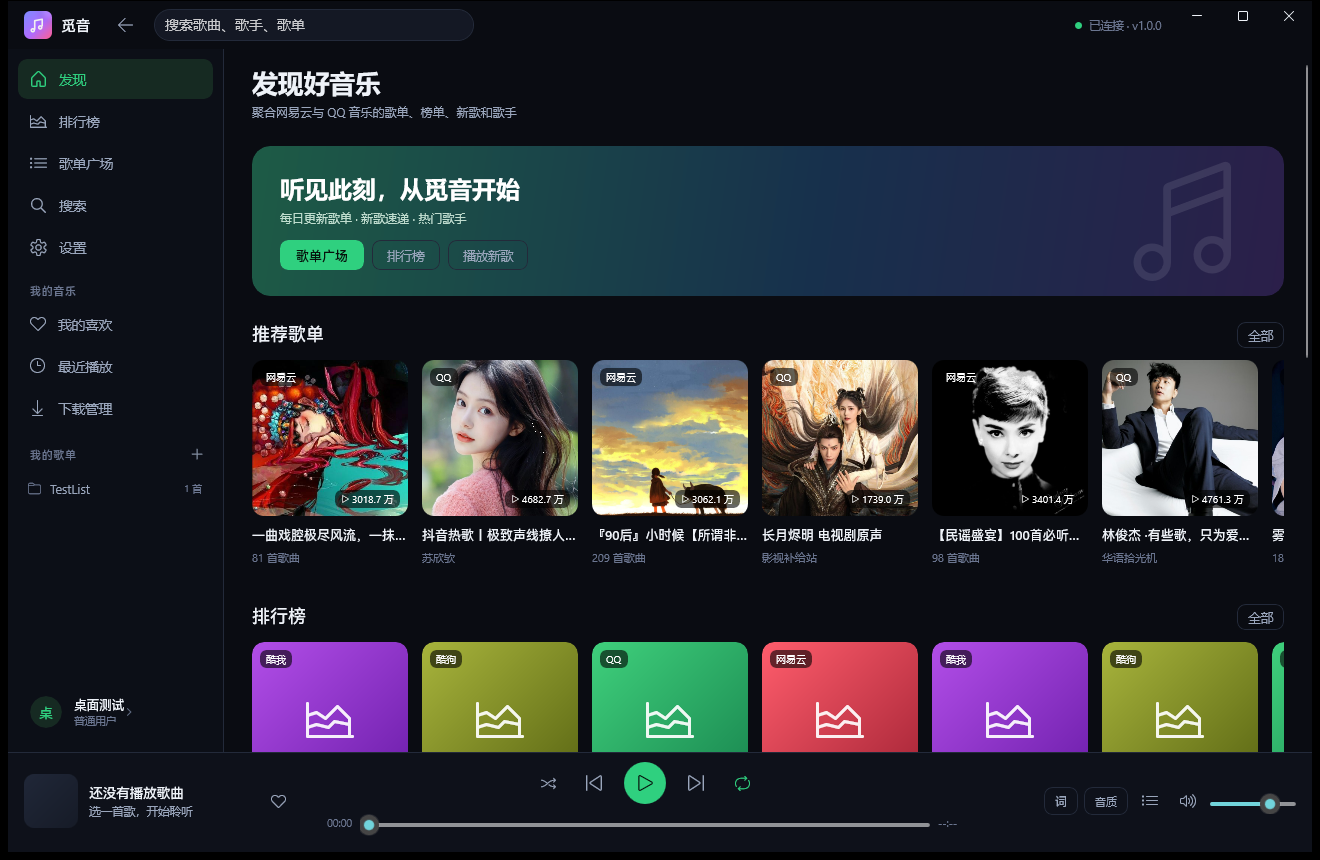
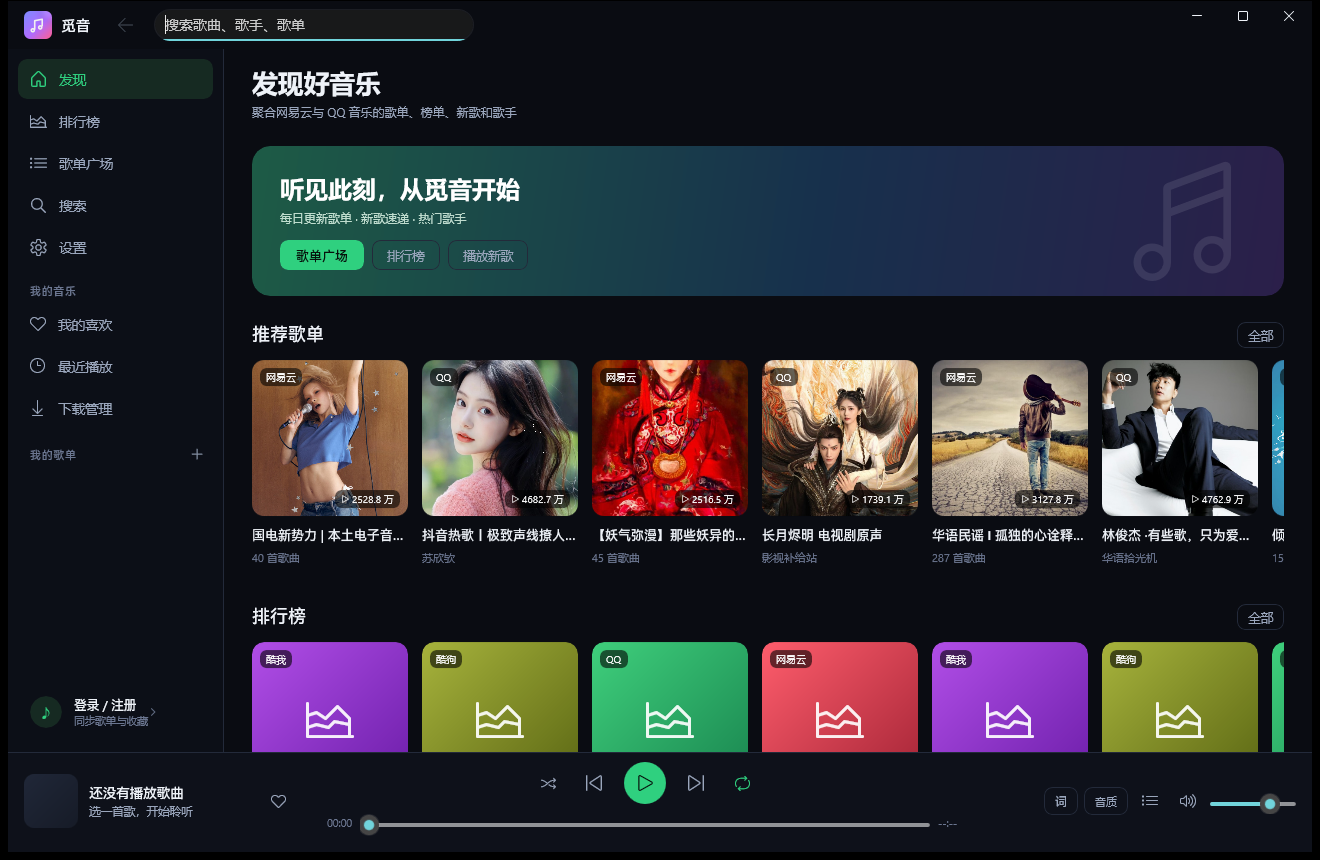
Silent background connect, home cache, custom server cache

diff --git a/desktop-winui/MiYin.Desktop/MainWindow.xaml b/desktop-winui/MiYin.Desktop/MainWindow.xaml
@@ -39,10 +39,6 @@
                             PlaceholderText="搜索歌曲、歌手、歌单" QuerySubmitted="GlobalSearch_QuerySubmitted"
                             BorderBrush="{StaticResource LineBrush}" Background="{StaticResource CardBrush}" CornerRadius="16" />
 
-            <StackPanel Grid.Column="4" Orientation="Horizontal" Spacing="7" VerticalAlignment="Center">
-                <Ellipse x:Name="ApiStatusDot" Width="7" Height="7" Fill="{StaticResource AccentBrush}" />
-                <TextBlock x:Name="ApiStatusText" Text="正在连接…" FontSize="11.5" Foreground="{StaticResource TextFaintBrush}" />
-            </StackPanel>
         </Grid>
 
         <!-- ================= 主体 ================= -->
@@ -370,32 +366,6 @@
                     </ListView>
                 </Grid>
             </Border>
-        </Grid>
-
-        <!-- ================= 连接失败 ================= -->
-        <Grid x:Name="ConnectionErrorOverlay" Grid.RowSpan="3" Visibility="Collapsed" Background="{StaticResource AppBgBrush}">
-            <Border Width="480" Padding="30" CornerRadius="18" Background="{StaticResource CardBrush}"
-                    BorderBrush="{StaticResource LineBrush}" BorderThickness="1" HorizontalAlignment="Center" VerticalAlignment="Center">
-                <StackPanel Spacing="12">
-                    <Image Source="Assets/app.png" Width="46" Height="46" HorizontalAlignment="Left" />
-                    <TextBlock Text="无法连接音乐服务器" FontSize="21" FontWeight="Bold" Foreground="{StaticResource TextBrush}" />
-                    <TextBlock Text="觅音已固定连接 music.poouo.com，请检查网络后重试。"
-                               FontSize="12" Foreground="{StaticResource TextFaintBrush}" TextWrapping="Wrap" />
-                    <TextBlock x:Name="ConnectionErrorText" FontSize="11.5" Foreground="{StaticResource PinkBrush}" TextWrapping="Wrap" />
-                    <Button x:Name="RetryButton" Style="{StaticResource PrimaryButtonStyle}" Content="重试"
-                            HorizontalAlignment="Right" Click="RetryConnect_Click" />
-                </StackPanel>
-            </Border>
-        </Grid>
-
-        <!-- ================= 启动加载 ================= -->
-        <Grid x:Name="StartupOverlay" Grid.RowSpan="3" Background="{StaticResource AppBgBrush}">
-            <StackPanel HorizontalAlignment="Center" VerticalAlignment="Center" Spacing="18">
-                <Image Source="Assets/app.png" Width="96" Height="96" />
-                <TextBlock Text="觅音" FontSize="30" FontWeight="Bold" Foreground="{StaticResource TextBrush}" HorizontalAlignment="Center" />
-                <ProgressRing IsActive="True" Width="28" Height="28" Foreground="{StaticResource AccentBrush}" />
-                <TextBlock x:Name="StartupText" Text="正在启动…" FontSize="12" Foreground="{StaticResource TextFaintBrush}" HorizontalAlignment="Center" />
-            </StackPanel>
         </Grid>
 
         <!-- ================= 提示 ================= -->

diff --git a/web/src/pages/AdminPage.tsx b/web/src/pages/AdminPage.tsx
@@ -947,7 +947,8 @@ function CacheSection() {
 
   const setGb = (value: number) => {
     if (!Number.isFinite(value)) return
-    setCache({ ...cache, maxBytes: Math.max(0.25, value) * 1024 ** 3 })
+    const safe = Math.min(4096, Math.max(1, Math.round(value)))
+    setCache({ ...cache, maxBytes: safe * 1024 ** 3 })
   }
 
   const toggleQuality = (quality: Quality) => {
@@ -1021,17 +1022,18 @@ function CacheSection() {
       <div className="admin-card glass">
         <div className="admin-card__head">
           <div>
-            <div className="admin-card__title">缓存总容量</div>
+            <div className="admin-card__title">缓存总容量（自定义）</div>
             <div className="faint" style={{ fontSize: 12, marginTop: 3 }}>
-              超出后按最久未播放的顺序自动清理旧文件；游客主动下载不受这个上限影响。
+              按你的存储空间自由填写，最大 4096 GB；4TB NAS 建议先设 2048 GB，给系统和其他数据留余量。
             </div>
           </div>
           <div className="row gap-8" style={{ alignItems: 'center' }}>
             <input
               className="input"
               type="number"
-              min={0.25}
-              step={0.5}
+              min={1}
+              max={4096}
+              step={1}
               value={gb}
               onChange={(event) => setGb(Number(event.target.value))}
               style={{ width: 110, height: 36 }}
@@ -1040,13 +1042,13 @@ function CacheSection() {
           </div>
         </div>
         <div className="row gap-8" style={{ flexWrap: 'wrap', marginTop: 10 }}>
-          {[2, 8, 16, 32, 64].map((size) => (
+          {[64, 128, 256, 512, 1024, 2048, 4096].map((size) => (
             <button
               key={size}
               className={'chip' + (Math.abs(gb - size) < 0.05 ? ' is-active' : '')}
               onClick={() => setGb(size)}
             >
-              {size} GB
+              {size >= 1024 ? (size / 1024) + ' TB' : size + ' GB'}
             </button>
           ))}
         </div>

diff --git a/desktop-winui/MiYin.Desktop/Views/HomePage.xaml.cs b/desktop-winui/MiYin.Desktop/Views/HomePage.xaml.cs
@@ -1,3 +1,4 @@
+using System.Text.Json;
 using MiYin.Desktop.Models;
 using MiYin.Desktop.Services;
 using Microsoft.UI.Xaml;
@@ -13,9 +14,21 @@ public sealed partial class HomePage : Page
     private static List<Song>? _newSongs;
     private static List<SingerInfo>? _singers;
 
+    private static readonly string CacheFile = Path.Combine(AppInfo.DataDirectory, "home-cache.json");
+    private static readonly JsonSerializerOptions JsonOptions = new() { WriteIndented = false };
+
+    private sealed class HomeCache
+    {
+        public List<PlaylistInfo>? Playlists { get; set; }
+        public List<ChartInfo>? Charts { get; set; }
+        public List<Song>? NewSongs { get; set; }
+        public List<SingerInfo>? Singers { get; set; }
+    }
+
     public HomePage()
     {
         InitializeComponent();
+        LoadCached();
         Loaded += (_, _) => _ = LoadAsync();
         Unloaded += (_, _) => LibraryService.Instance.Changed -= Library_Changed;
     }
@@ -29,39 +42,84 @@ public sealed partial class HomePage : Page
 
     private void Library_Changed(object? sender, EventArgs e) => DispatcherQueue.TryEnqueue(RefreshRecent);
 
+    public Task RefreshAsync() => LoadAsync();
+
     private async Task LoadAsync()
     {
-        LoadingRing.IsActive = true;
+        // 有缓存时先展示缓存，不显示整页的加载遮罩；网络回来后再覆盖。
+        LoadingRing.IsActive = _playlists is null;
         ErrorText.Visibility = Visibility.Collapsed;
         try
         {
-            if (_playlists is null || _charts is null || _newSongs is null || _singers is null)
-            {
-                var playlistsTask = ApiService.GetDiscoverPlaylistsAsync(12, 18);
-                var chartsTask = ApiService.GetChartsAsync();
-                var songsTask = ApiService.GetNewSongsAsync(12);
-                var singersTask = ApiService.GetSingersAsync(12);
-                await Task.WhenAll(playlistsTask, chartsTask, songsTask, singersTask);
-                _playlists = playlistsTask.Result.Playlists;
-                _charts = chartsTask.Result.Charts;
-                _newSongs = songsTask.Result.Songs;
-                _singers = singersTask.Result.Singers;
-            }
-            PlaylistRail.ItemsSource = _playlists;
-            ChartRail.ItemsSource = MixCharts(_charts);
-            NewSongRail.ItemsSource = _newSongs;
-            SingerRail.ItemsSource = _singers;
+            var playlistsTask = ApiService.GetDiscoverPlaylistsAsync(12, 18);
+            var chartsTask = ApiService.GetChartsAsync();
+            var songsTask = ApiService.GetNewSongsAsync(12);
+            var singersTask = ApiService.GetSingersAsync(12);
+            await Task.WhenAll(playlistsTask, chartsTask, songsTask, singersTask);
+
+            _playlists = playlistsTask.Result.Playlists;
+            _charts = chartsTask.Result.Charts;
+            _newSongs = songsTask.Result.Songs;
+            _singers = singersTask.Result.Singers;
+            ApplyData();
+            SaveCache();
         }
         catch (Exception ex)
         {
-            ErrorText.Text = "内容加载失败：" + ex.Message;
-            ErrorText.Visibility = Visibility.Visible;
+            // 有旧内容时静默保留，不在用户面前弹“连接失败”。
+            if (_playlists is null)
+            {
+                ErrorText.Text = "暂时无法加载内容，稍后自动重试";
+                ErrorText.Visibility = Visibility.Visible;
+            }
+            AppLog.Write("home load failed: " + ex.Message);
         }
         finally
         {
             LoadingRing.IsActive = false;
         }
         RefreshRecent();
+    }
+
+    private void LoadCached()
+    {
+        try
+        {
+            if (_playlists is not null || !File.Exists(CacheFile)) return;
+            var cache = JsonSerializer.Deserialize<HomeCache>(File.ReadAllText(CacheFile), JsonOptions);
+            if (cache is null) return;
+            _playlists = cache.Playlists;
+            _charts = cache.Charts;
+            _newSongs = cache.NewSongs;
+            _singers = cache.Singers;
+            ApplyData();
+        }
+        catch
+        {
+            /* 缓存损坏时忽略 */
+        }
+    }
+
+    private void ApplyData()
+    {
+        PlaylistRail.ItemsSource = _playlists;
+        ChartRail.ItemsSource = _charts is null ? null : MixCharts(_charts);
+        NewSongRail.ItemsSource = _newSongs;
+        SingerRail.ItemsSource = _singers;
+    }
+
+    private void SaveCache()
+    {
+        try
+        {
+            Directory.CreateDirectory(AppInfo.DataDirectory);
+            var cache = new HomeCache { Playlists = _playlists, Charts = _charts, NewSongs = _newSongs, Singers = _singers };
+            File.WriteAllText(CacheFile, JsonSerializer.Serialize(cache, JsonOptions));
+        }
+        catch
+        {
+            /* 缓存写入失败不影响页面 */
+        }
     }
 
     private static List<ChartInfo> MixCharts(List<ChartInfo> charts)

diff --git a/desktop-winui/MiYin.Desktop/MainWindow.xaml.cs b/desktop-winui/MiYin.Desktop/MainWindow.xaml.cs
@@ -25,7 +25,8 @@ public sealed partial class MainWindow : Window
     private bool _updatingVolume;
     private bool _draggingProgress;
     private bool _draggingVolume;
-    private bool _connecting;
+    private bool _initializing;
+    private bool _retryScheduled;
     private bool _exiting;
     private bool _hidingToTray;
 
@@ -187,61 +188,69 @@ public sealed partial class MainWindow : Window
         }
     }
 
+    /// <summary>先展示主界面（有缓存就先展示缓存），连接过程完全放到后台。</summary>
+    public void StartShell()
+    {
+        NavigateTo(typeof(HomePage), null, "home");
+        _ = InitializeAsync();
+    }
+
     public async Task InitializeAsync()
     {
+        if (_initializing || _exiting) return;
+        _initializing = true;
         try
         {
             AppLog.Write("window init start api=" + ConfigService.Current.ApiBase);
             await LocalMediaServer.Instance.StartAsync();
-            StartupText.Text = "正在连接音乐服务…";
             var (ok, message, version) = await ApiService.TestConnectionAsync(ConfigService.Current.ApiBase);
             if (!ok)
             {
-                StartupOverlay.Visibility = Visibility.Collapsed;
-                ShowConnectionError(message);
+                AppLog.Write("background connect failed: " + message);
+                ScheduleRetry();
                 return;
             }
-            ApiStatusText.Text = "已连接" + (string.IsNullOrEmpty(version) ? "" : " · v" + version);
-            ApiStatusDot.Fill = (Brush)Application.Current.Resources["AccentBrush"];
+
             AppLog.Write("connected api=" + ConfigService.Current.ApiBase + " version=" + version);
             await AuthService.Instance.InitializeAsync();
             await LibraryService.Instance.ReloadAsync();
             RefreshUserCard();
-            StartupOverlay.Visibility = Visibility.Collapsed;
-            NavigateTo(typeof(HomePage), null, "home");
+
+            // 连接成功后再把当前页面刷新成最新数据；用户不会看到连接过程。
+            await RefreshCurrentPageAsync();
         }
         catch (Exception ex)
         {
-            StartupOverlay.Visibility = Visibility.Collapsed;
-            ShowConnectionError("启动失败：" + ex.Message);
-        }
-    }
-
-    private void ShowConnectionError(string message)
-    {
-        ConnectionErrorOverlay.Visibility = Visibility.Visible;
-        ConnectionErrorText.Text = message;
-        ApiStatusText.Text = "未连接";
-        ApiStatusDot.Fill = new SolidColorBrush(ColorHelper.FromArgb(255, 255, 93, 108));
-    }
-
-    private async void RetryConnect_Click(object sender, RoutedEventArgs e)
-    {
-        if (_connecting) return;
-        _connecting = true;
-        RetryButton.IsEnabled = false;
-        ConnectionErrorOverlay.Visibility = Visibility.Collapsed;
-        StartupOverlay.Visibility = Visibility.Visible;
-        StartupText.Text = "正在重新连接…";
-        try
-        {
-            await InitializeAsync();
+            AppLog.Write("background init failed: " + ex.Message);
+            ScheduleRetry();
         }
         finally
         {
-            _connecting = false;
-            RetryButton.IsEnabled = true;
+            _initializing = false;
         }
+    }
+
+    private async Task RefreshCurrentPageAsync()
+    {
+        if (ContentFrame.Content is HomePage home)
+        {
+            await home.RefreshAsync();
+        }
+    }
+
+    private async void ScheduleRetry()
+    {
+        if (_retryScheduled || _exiting) return;
+        _retryScheduled = true;
+        try
+        {
+            await Task.Delay(TimeSpan.FromSeconds(8));
+        }
+        finally
+        {
+            _retryScheduled = false;
+        }
+        if (!_exiting) await InitializeAsync();
     }
 
     public void NavigateTo(Type pageType, object? parameter = null, string? navKey = null)

diff --git a/desktop-winui/MiYin.Desktop/App.xaml.cs b/desktop-winui/MiYin.Desktop/App.xaml.cs
@@ -34,6 +34,7 @@ public partial class App : Application
 
         MainWindow = new MainWindow();
         MainWindow.Activate();
-        _ = MainWindow.InitializeAsync();
+        // 立即展示主界面；连接、账号同步都在后台静默进行。
+        MainWindow.StartShell();
     }
 }

diff --git a/desktop-winui/README.md b/desktop-winui/README.md
@@ -14,7 +14,9 @@
 - 下载管理：主动下载永久保留、进度 / 取消 / 打开位置
 - 本地自动缓存：缓存目录、容量上限、自动缓存开关、清空缓存
 - 账号登录 / 注册、昵称修改、收藏 / 歌单 / 记录同步
-- 固定连接 `https://music.poouo.com`，没有服务器配置入口；连接失败只显示重试
+- 固定连接 `https://music.poouo.com`，没有服务器配置入口
+- 启动直接进入主界面，连接和账号同步全部后台静默进行；连接成功后自动刷新，不显示“已连接”状态
+- 首页内容会缓存到本地，断网或慢网时先展示上次内容，再静默更新
 - **系统托盘**：关闭窗口 / 最小化到托盘可分别配置；托盘菜单支持播放暂停、上一首、下一首和退出
 - 无可用音频输出端点时自动进入静音播放时钟，播放进度、歌词和队列仍正常推进
 - 任务栏显示自定义图标（同时设置窗口类图标和 WM_SETICON，修复 WinUI 3 任务栏空白图标）

diff --git a/README.md b/README.md
@@ -61,7 +61,7 @@
 - 下载范围可配置：**游客 / 普通用户 / 会员 / 管理员** 四个受众任意组合
 - 可下载音质可配置：Hi-Res / 无损 / 高品质 / 标准
 - 下载请求在服务端二次校验角色与音质，超出范围直接拒绝；下载链接带签名与时效
-- **音乐缓存**：歌单 / 收藏中的歌曲会自动缓存到服务端磁盘，上游音源失效后仍可播放；缓存总容量、音质、自动预热可在管理后台配置，超出容量按 LRU 清理
+- **音乐缓存**：歌单 / 收藏中的歌曲会自动缓存到服务端磁盘，上游音源失效后仍可播放；默认 8GB，管理后台可自定义到 4096GB，超出容量按 LRU 清理
 
 **管理后台**（路由 #/admin，非管理员一律返回 404）
 - 概览：用户/会话/播放统计、近 7 天注册曲线、平台分布、运行状态
